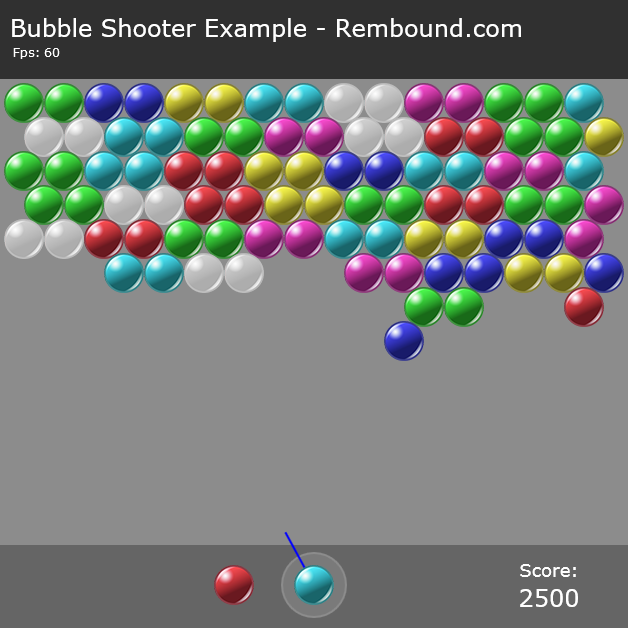
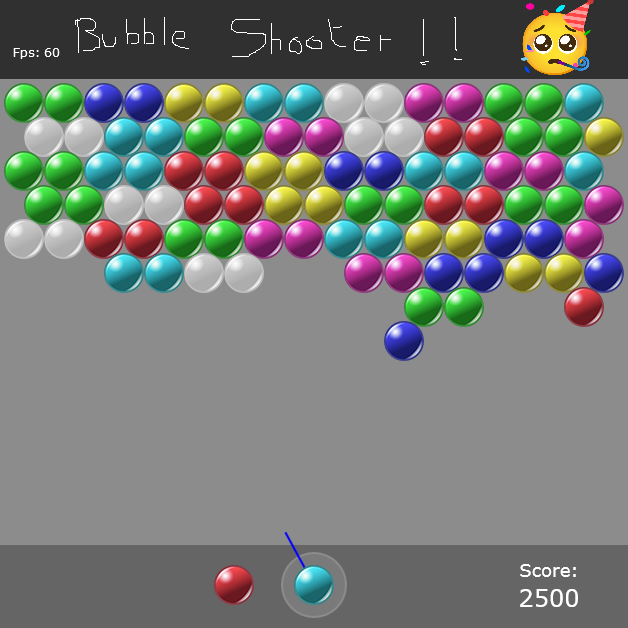
Bug fix parseur + modifs tests Changes to be committed: 	modified:   libnotreparser/api.c				<- L:76 req-mem => mem-req 	modified:   serverHTTP/modules/OptionsParser/option_parser.c	<- debug en commentaires 	modified:   serverHTTP/server.c					<- Message nouvelle requete en vert 	modified:   www/Bub

Changed region(s): [[0.5143, 0.0, 0.9379, 0.121], [0.0, 0.0303, 0.5143, 0.0908]]

diff --git a/www/numero2/profond/index.html b/www/numero2/profond/index.html
@@ -9,11 +9,11 @@
     <p>Coucou toi</p>
 	
 	<div style="background-color: rgba(76, 0, 80, 0.1);">
-     Clique sur le bouton pour avoir plein de points geeks !
+     üüüüüüüüüüüüöüüüüüüüüüüüüü
 	</div>
 
 
-	<p>Site interdit: <a href="../index.html">sitecool.com</a></p>
+	<p>Site autorisé: <a href="../index.html">back to numdos via ..</a></p>
 
 </body>
 </html>

diff --git a/www/BubbleShooter/bubble-shooter-example.js b/www/BubbleShooter/bubble-shooter-example.js
@@ -769,7 +769,7 @@ window.onload = function() {
         // Draw title
         context.fillStyle = "#ffffff";
         context.font = "24px Verdana";
-        context.fillText("Bubble Shooter Example - Rembound.com", 10, 37);
+        context.fillText("Bubble Shooter !! ඞ           ", 10, 37);
         
         // Display fps
         context.fillStyle = "#ffffff";

diff --git a/serverHTTP/modules/OptionsParser/option_parser.c b/serverHTTP/modules/OptionsParser/option_parser.c
@@ -47,11 +47,14 @@ int FillHostsParametres(void){
 		vérifie si le fichier à été parsé entièrement,
 		sinon mettre un warning ("Possible Entry Miss")
 	*/
-	_Token* t; int l;
+	_Token* t; int l; //char *s;
 	t = searchTree( NULL, "Config");
-	getElementValue(t->node, &l);
-	if (l < st.st_size)
+	/*s = */getElementValue(t->node, &l);
+	if (l < st.st_size){
 		printf(MAG"Warning: Possible Entry Miss"NC" - Check your "SERV_CONFIG" file\n");
+		// printf("File size: %ld\t -  Config len: %d\n",st.st_size,l);
+		// printf("Content of parsed thing:\n%.*s[EOF]\n",l,s);
+	}
 	
 	
 	_Token *r,*r2,*tok,*Entry_list;

diff --git a/serverHTTP/server.c b/serverHTTP/server.c
@@ -66,7 +66,7 @@ int main(/*int argc, char *argv[]*/)
 		if ((requete=getRequest(8080)) == NULL ) return -1;
 
 		// Affichage de debug
-		printf(RED"#########################################"NC"\nDemande recue depuis le client %d\n",requete->clientId);
+		printf(RED"\n#########################################"GRN"\nDemande recue depuis le client %d\n"NC,requete->clientId);
 		printf("Client [%d] [%s:%d]\n",requete->clientId,inet_ntoa(requete->clientAddress->sin_addr),htons(requete->clientAddress->sin_port));
 		printf(YEL"Contenu de la demande"NC"\n%.*s\n",requete->len,requete->buf);
 		

diff --git a/libnotreparser/api.c b/libnotreparser/api.c
@@ -73,7 +73,7 @@ int parseur(char *req, int len) {
 
     int r = construire(first_tag, getRootTree());
 	
-	((node*) getRootTree())->len_value = req-mem;
+	((node*) getRootTree())->len_value = mem-req;
 
 	FIX_FINAL_NE_PAS_TOUCHER();
 
